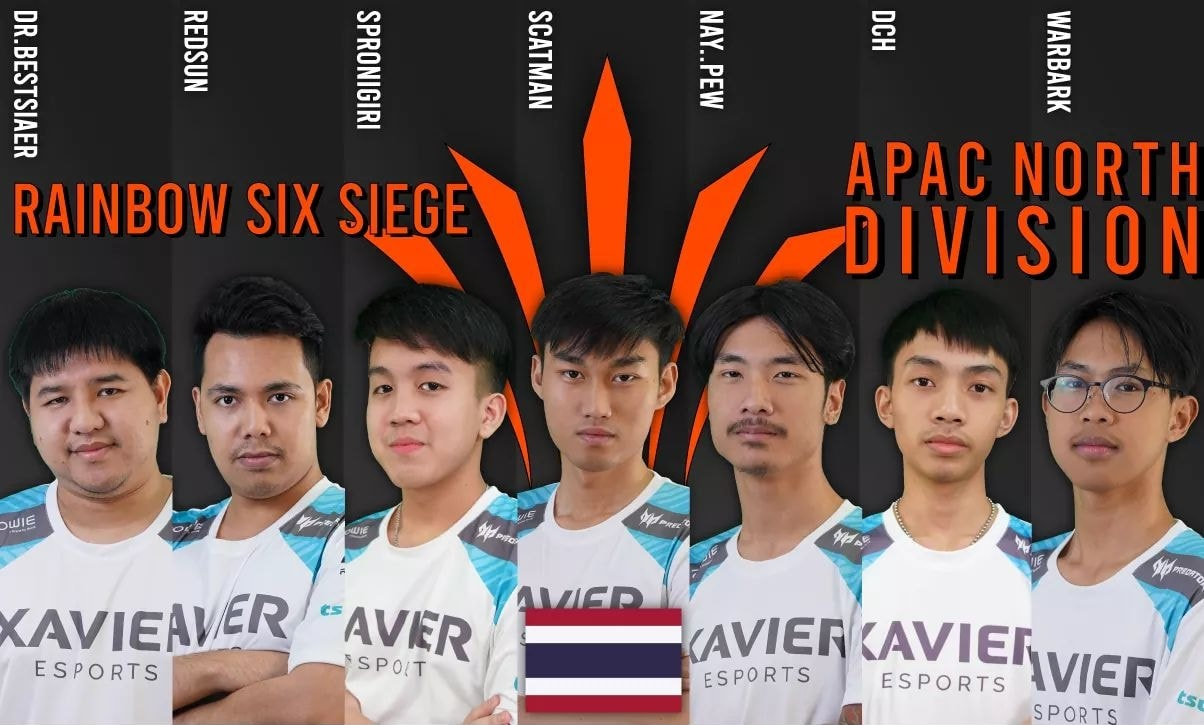
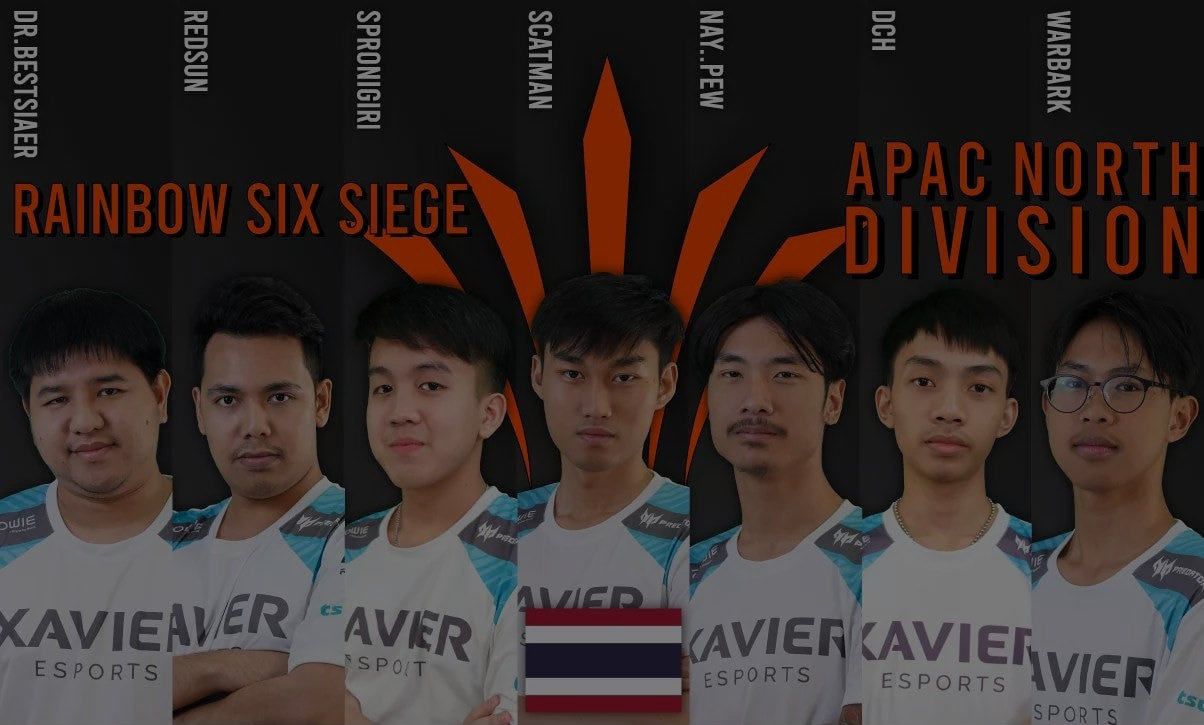
header

diff --git a/index.html b/index.html
@@ -65,6 +65,9 @@
   <div id="headerwrap">
     <div class="container">
       <div class="row centered">
+	    <div class="col-lg-12">
+          <img class="img-responsive center-block" src="img/header.png" alt="">
+        </div>
         <!--/.col-lg-12 -->
       </div>
       <!--/.row -->

diff --git a/css/style.css b/css/style.css
@@ -159,6 +159,7 @@ SECTION WRAPS
   background: url(../img/header-bg.jpg) no-repeat center top;
   margin-top: 60px;
   padding-top: 140px;
+  padding-bottom: 20px;
   text-align: center;
   background-attachment: relative;
   background-position: center center;
